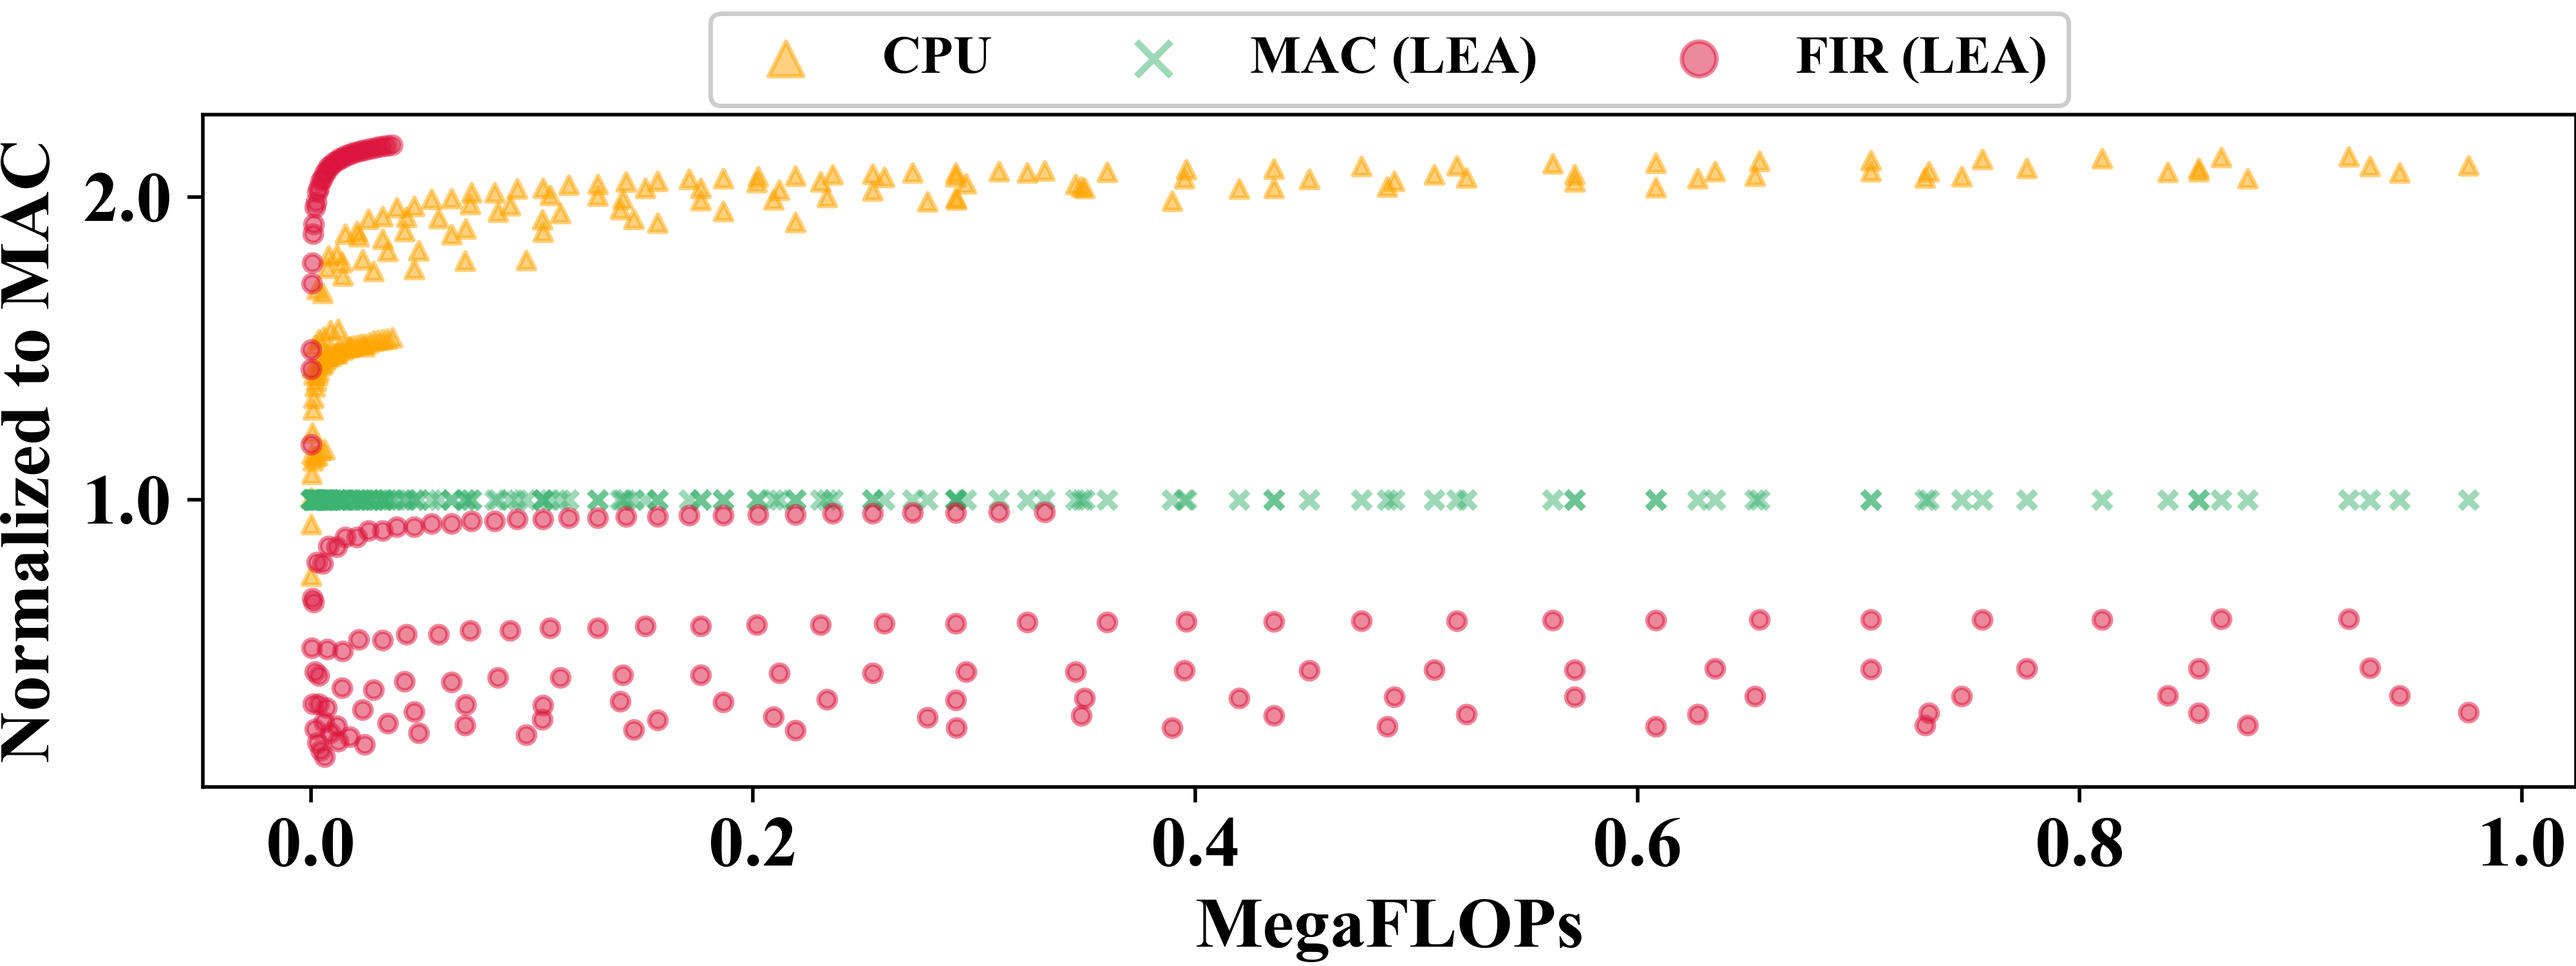
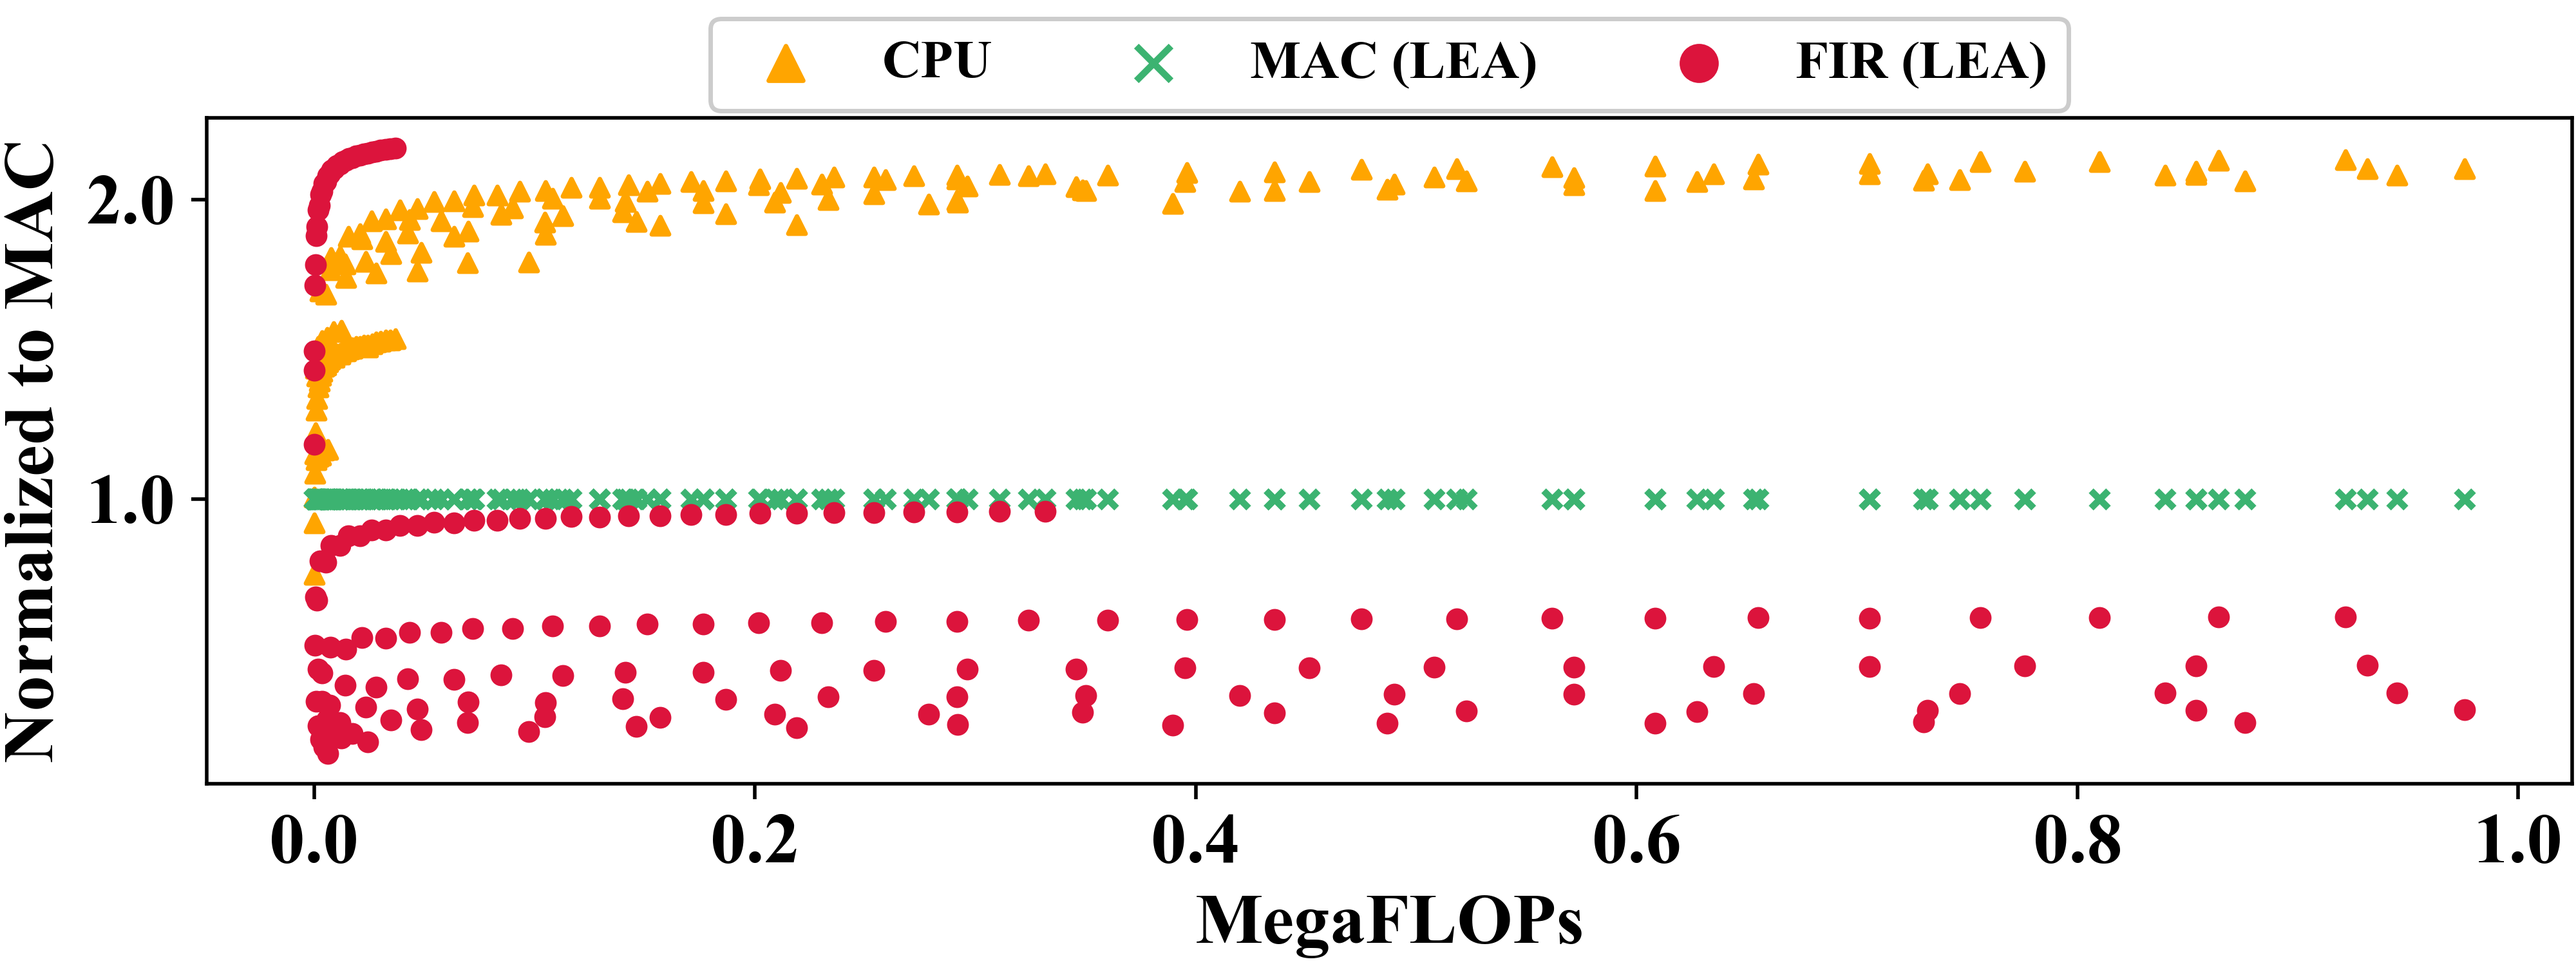
update plot

diff --git a/apps/fir_mac_cpu_bench/logs/plot.py b/apps/fir_mac_cpu_bench/logs/plot.py
@@ -74,9 +74,9 @@ plt.rcParams["axes.labelweight"] = "bold"
 fig = plt.figure(figsize=(8, 3))
 fig.add_subplot(111)
 
-plt.scatter(cpu_df['flops'], cpu_df['time'], s=15, alpha=0.5, color='orange', marker='^', label='CPU')
-plt.scatter(mac_df['flops'], mac_df['time'], s=15, alpha=0.5, color='mediumseagreen', marker='x', label='MAC (LEA)')
-plt.scatter(fir_df['flops'], fir_df['time'], s=15, alpha=0.5, color='crimson', marker='o', label='FIR (LEA)')
+plt.scatter(cpu_df['flops'], cpu_df['time'], s=15, alpha=1, color='orange', marker='^', label='CPU')
+plt.scatter(mac_df['flops'], mac_df['time'], s=15, alpha=1, color='mediumseagreen', marker='x', label='MAC (LEA)')
+plt.scatter(fir_df['flops'], fir_df['time'], s=15, alpha=1, color='crimson', marker='o', label='FIR (LEA)')
 
 # for m, f in model_flops.items():
 #     plt.axvline(x=f[0], color='black', linestyle='--')
@@ -88,7 +88,7 @@ plt.ylabel('Normalized to MAC')
 plt.legend(fontsize=12, markerscale=2, ncol=3, loc='upper center', bbox_to_anchor=(0.5, 1.19), framealpha=1)
 plt.gca().yaxis.set_major_formatter(ticker.FormatStrFormatter('%.1f'))
 
-fig.tight_layout(pad=0)
+fig.tight_layout(pad=0.05)
 
 # plt.show()
 plt.savefig(f'flops_time.png', dpi=500)

diff --git a/apps/lea_op_bench/logs/plot.py b/apps/lea_op_bench/logs/plot.py
@@ -165,7 +165,7 @@ fig.legend(
     loc='lower center', ncol=4,
     fontsize=12, bbox_to_anchor=(0.5, -0.017)
 )
-fig.tight_layout(pad=0, rect=[0.03, 0.09, 1, 1])
+fig.tight_layout(pad=0.05, rect=[0.03, 0.09, 1, 1])
 
 fig.text(0.0, 0.615, 'Normalized to Input Size of 6', va='center', rotation='vertical', fontsize=16)
 

diff --git a/logs/scripts/plot_continuous.py b/logs/scripts/plot_continuous.py
@@ -97,7 +97,7 @@ fig.legend(handles=l, loc='lower center', ncol=7, fontsize=12, bbox_to_anchor=(0
 
 plt.subplots_adjust(wspace=0)
 
-fig.tight_layout(pad=0, rect=[0, 0.05, 1, 1])
+fig.tight_layout(pad=0.05, rect=[0, 0.05, 1, 1])
 
 plt.savefig(f'figures/opt_perf_continous.png', dpi=500)
 
